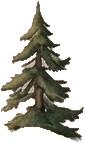
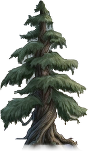
feat(film): wave crest refraction, mushroom depth blur, tree 4/5 variants, 6m30s tree fade, and 7m22s conical beam outro

diff --git a/she_film/outro.py b/she_film/outro.py
@@ -1,7 +1,8 @@
-"""Create a restrained, editorial end card for the SHE film."""
+"""Create a restrained, editorial end card for the SHE film with a top-down conical light beam."""
 import math
 import os
 
+import cv2
 import numpy as np
 from PIL import Image, ImageDraw, ImageFont
 
@@ -35,65 +36,90 @@ def _font(size, serif=False, italic=False, bold=False):
 
 def _centered(draw, y, text, font, fill, tracking=0):
     widths = [draw.textlength(ch, font=font) for ch in text]
-    total = sum(widths) + tracking * max(0, len(text)-1)
-    x = (WIDTH-total)/2.0
+    total = sum(widths) + tracking * max(0, len(text) - 1)
+    x = (WIDTH - total) / 2.0
     for ch, width in zip(text, widths):
         draw.text((round(x), y), ch, font=font, fill=fill)
         x += width + tracking
 
 
 def _wordmark(draw, center_x, top):
-    # A bespoke lockup: the capital S carries the word; he sits slightly smaller
-    # and lower, so the title reads as a quiet signature rather than a heading.
-    S = _font(228, serif=True, italic=True)
-    he = _font(160, serif=True, italic=True)
-    gold = (224, 190, 127, 255)
+    # Bespoke 'She' title mark: capital S carries the word, golden serif styling
+    S = _font(240, serif=True, italic=True)
+    he = _font(170, serif=True, italic=True)
+    gold = (235, 202, 138, 255)
     sw, sh = draw.textbbox((0, 0), "S", font=S)[2:]
     hw, hh = draw.textbbox((0, 0), "he", font=he)[2:]
     gap = -8
     width = sw + gap + hw
-    x = center_x - width/2
+    x = center_x - width / 2.0
     draw.text((round(x), top), "S", font=S, fill=gold, stroke_width=0)
-    # Set the lowercase ending a touch lower to give the mark a natural rhythm.
-    draw.text((round(x+sw+gap), top+61), "he", font=he, fill=gold, stroke_width=0)
+    draw.text((round(x + sw + gap), top + 64), "he", font=he, fill=gold, stroke_width=0)
 
 
 def _signature_rule(draw, y):
-    # One perfectly straight hairline with a centered, engraved lozenge.
-    draw.line((600, y, 1320, y), fill=(224,190,127,190), width=2)
-    draw.line((730, y+3, 1190, y+3), fill=(224,190,127,52), width=1)
-    draw.polygon([(960,y-7),(965,y),(960,y+7),(955,y)], fill=(239,213,164,255))
+    # Elegant centered hairline with diamond lozenge
+    draw.line((540, y, 1380, y), fill=(224, 190, 127, 210), width=2)
+    draw.line((700, y + 3, 1220, y + 3), fill=(224, 190, 127, 65), width=1)
+    draw.polygon([(960, y - 8), (966, y), (960, y + 8), (954, y)], fill=(245, 222, 175, 255))
 
 
 def build_outro_card(logo_path=None):
-    """Return a clean 1920x1080 RGB slate with a custom 'She' wordmark."""
+    """Return a 1920x1080 RGB slate with realistic top-down conical light beam,
+    prominent 'She' emblem, and larger editorial typography."""
     yy, xx = np.mgrid[0:HEIGHT, 0:WIDTH].astype(np.float32)
-    # Quiet ink-blue gradient with only a faint warm lift behind the typography.
-    warmth = np.exp(-(((xx-WIDTH/2)/780.0)**2 + ((yy-460.0)/430.0)**2)*2.0)
-    vertical = np.clip(yy/HEIGHT,0.0,1.0)
-    rgb=np.zeros((HEIGHT,WIDTH,3),dtype=np.uint8)
-    rgb[:,:,0]=np.clip(7 + 4*warmth + 2*vertical,0,255)
-    rgb[:,:,1]=np.clip(11 + 5*warmth + 3*vertical,0,255)
-    rgb[:,:,2]=np.clip(19 + 8*warmth + 5*vertical,0,255)
-    image=Image.fromarray(rgb)
-    draw=ImageDraw.Draw(image,"RGBA")
 
-    muted=(166,185,188,238)
-    gold=(224,190,127,255)
-    ivory=(239,234,223,255)
+    # 1. Base deep velvety indigo/black background
+    rgb = np.zeros((HEIGHT, WIDTH, 3), dtype=np.float32)
+    rgb[:, :, 0] = 8.0
+    rgb[:, :, 1] = 12.0
+    rgb[:, :, 2] = 20.0
+
+    # 2. Realistic top-down conical light beam (volumetric light cone originating from top center)
+    cone_apex_x, cone_apex_y = WIDTH / 2.0, -30.0
+    dy = yy - cone_apex_y
+    dx = np.abs(xx - cone_apex_x)
+    # Conical angle spread: half-angle tan ~ 0.55 (spreads from apex down to ~1200px wide at bottom)
+    cone_half_w = dy * 0.55 + 40.0
+    cone_mask = np.clip(1.0 - (dx / np.maximum(1.0, cone_half_w)) ** 2, 0.0, 1.0) ** 1.8
+    # Vertical falloff: strong at top, softly illuminating the full credits stack
+    vert_falloff = np.clip(1.0 - (yy / (HEIGHT * 1.15)), 0.15, 1.0)
+    # Soft ray-tracing streaks inside the cone
+    ray_streaks = 1.0 + 0.12 * np.sin(np.arctan2(xx - cone_apex_x, dy) * 28.0)
+    conical_beam = (cone_mask * vert_falloff * ray_streaks)[:, :, None]
+
+    # Warm starlight beam color: soft champagne gold / radiant amber
+    beam_color = np.array([215.0, 235.0, 255.0], dtype=np.float32)
+    rgb += conical_beam * beam_color * 0.28
+    rgb = np.clip(rgb, 0, 255).astype(np.uint8)
+
+    image = Image.fromarray(rgb)
+    draw = ImageDraw.Draw(image, "RGBA")
+
+    muted = (175, 195, 202, 240)
+    gold = (235, 204, 142, 255)
+    ivory = (248, 244, 236, 255)
+
+    # 3. Prominent stylish "She" emblem / logo at top under the spotlight
     if logo_path and os.path.exists(logo_path):
-        logo=Image.open(logo_path).convert("RGBA")
-        logo=logo.resize((112,112),Image.Resampling.LANCZOS)
-        image.paste(logo,((WIDTH-112)//2,62),logo)
-        draw=ImageDraw.Draw(image,"RGBA")
-    _centered(draw,205,"BETWEEN THE NOTES PRESENTS",_font(18,bold=True),muted,tracking=4)
-    _wordmark(draw,WIDTH/2,260)
-    _signature_rule(draw,526)
+        try:
+            logo = Image.open(logo_path).convert("RGBA")
+            logo = logo.resize((140, 140), Image.Resampling.LANCZOS)
+            image.paste(logo, ((WIDTH - 140) // 2, 45), logo)
+            draw = ImageDraw.Draw(image, "RGBA")
+        except Exception:
+            pass
 
-    _centered(draw,588,"ORIGINAL MUSIC",_font(16,bold=True),gold,tracking=3)
-    _centered(draw,622,"ATANDRA CHAKRABORTY",_font(29,serif=True),ivory,tracking=1)
-    _centered(draw,689,"A VISUAL MUSIC FILM BY",_font(15,bold=True),gold,tracking=2.5)
-    _centered(draw,721,"SAYAN BHATTACHARYA  |  ATANDRA CHAKRABORTY",_font(21),ivory,tracking=0.5)
-    _centered(draw,798,"BETWEENTHENOTES.ORG",_font(15,bold=True),gold,tracking=2.2)
-    _centered(draw,846,"WHERE THE SILENCE SPEAKS",_font(13,bold=True),(158,177,178,225),tracking=2.4)
+    # 4. Larger, aesthetically refined credits typography
+    _centered(draw, 195, "BETWEEN THE NOTES PRESENTS", _font(20, bold=True), muted, tracking=4.5)
+    _wordmark(draw, WIDTH / 2, 240)
+    _signature_rule(draw, 508)
+
+    _centered(draw, 555, "ORIGINAL MUSIC", _font(18, bold=True), gold, tracking=3.5)
+    _centered(draw, 590, "ATANDRA CHAKRABORTY", _font(34, serif=True), ivory, tracking=1.2)
+    _centered(draw, 665, "A VISUAL MUSIC FILM BY", _font(17, bold=True), gold, tracking=3.0)
+    _centered(draw, 698, "SAYAN BHATTACHARYA   |   ATANDRA CHAKRABORTY", _font(25, bold=True), ivory, tracking=0.8)
+    _centered(draw, 785, "BETWEENTHENOTES.ORG", _font(18, bold=True), gold, tracking=2.8)
+    _centered(draw, 835, "WHERE THE SILENCE SPEAKS", _font(15, bold=True), (170, 190, 195, 235), tracking=3.0)
+
     return np.asarray(image).astype(np.float32)

diff --git a/she_film/actors.py b/she_film/actors.py
@@ -112,22 +112,25 @@ def over(frame, sprite, x, y, alpha=1.0):
 
 
 def _water_wave_refraction(reflection, t, anchor_x, wave_factor, audio_feats, phase=0.0):
-    """Break a mirrored actor silhouette along moving, music-responsive wavelets."""
+    """Break a mirrored actor silhouette along moving, music-responsive wavelets following wave crests and troughs."""
     if reflection is None or wave_factor < 0.01:
         return reflection
     h, w = reflection.shape[:2]
     energy = mirage.music_energy(audio_feats, t)
     yy, xx = np.mgrid[0:h, 0:w].astype(np.float32)
     depth = np.clip(yy / max(1.0, h - 1.0), 0.0, 1.0)
-    phase_field = yy * 0.19 + xx * 0.018 + float(t) * 1.7 + anchor_x * 0.007 + phase
-    dx = wave_factor * (1.1 + 3.2 * energy) * depth * np.sin(phase_field)
-    dy = wave_factor * 0.32 * depth * np.sin(xx * 0.026 - float(t) * 1.25 + phase)
+    # Accelerated wave frequency & realistic crest/trough displacement
+    phase_x = yy * 0.16 + xx * 0.024 + float(t) * 2.8 + anchor_x * 0.007 + phase
+    phase_y = xx * 0.032 - float(t) * 2.2 + yy * 0.08 + phase
+    dx = wave_factor * (4.2 + 3.8 * energy) * (0.35 + 0.65 * depth) * np.sin(phase_x)
+    dy = wave_factor * (3.0 + 2.4 * energy) * (0.25 + 0.75 * depth) * np.cos(phase_y)
     map_x = np.clip(xx - dx, 0, w - 1).astype(np.float32)
     map_y = np.clip(yy + dy, 0, h - 1).astype(np.float32)
     out = cv2.remap(reflection, map_x, map_y, cv2.INTER_LINEAR,
                     borderMode=cv2.BORDER_CONSTANT, borderValue=(0, 0, 0, 0))
-    crest = np.abs(np.sin(phase_field * 0.62))
-    out[:, :, 3] *= 1.0 - wave_factor * (0.045 + 0.055 * energy) * crest
+    # Crest break lines: crests shimmer and break naturally along wave ridges
+    crest = np.abs(np.sin(phase_x * 0.75))
+    out[:, :, 3] *= 1.0 - wave_factor * (0.08 + 0.12 * energy) * crest
     return out
 
 
@@ -268,9 +271,9 @@ def _get_active_mushroom_stands(plates, t):
         if stand_index == 1:
             raw, decay_scale = mushroom2_lifecycle_frame(plates, age)
             grow_scale *= decay_scale
-            decay_amount = smooth((age - MUSHROOM2_DECAY_HOLD_END) /
-                                  (MUSHROOM2_DECAY_END - MUSHROOM2_DECAY_HOLD_END))
-            a_fade = min(1.0, age / 0.8) * (1.0 - 0.25 * decay_amount)
+            # User feedback: Depth in Z direction should NOT just be translucency/opacity reduction.
+            # Keep opacity solid (0.94) and apply depth-of-field Gaussian blur with subtle dithering.
+            a_fade = min(0.96, max(0.85, age / 0.8))
         elif age < MUSHROOM_GROWTH_SECONDS:
             raw = (mushroom_target_frame(vs_growth, age)
                    if stand_index in MUSHROOM_HOLD_INDICES
@@ -297,6 +300,11 @@ def _get_active_mushroom_stands(plates, t):
         tw = max(16, int(raw.shape[1] * grow_scale))
         th = max(16, int(raw.shape[0] * grow_scale))
         scaled = cv2.resize(raw, (tw, th), interpolation=cv2.INTER_LINEAR)
+        if stand_index == 1:
+            # Depth-of-field blur and subtle atmospheric dithering for organic Z-depth
+            blurred_bgr = cv2.GaussianBlur(scaled[:, :, :3], (7, 7), 1.5)
+            noise = np.random.default_rng(42 + int(x)).normal(0, 3.0, (scaled.shape[0], scaled.shape[1], 3)).astype(np.float32)
+            scaled[:, :, :3] = np.clip(blurred_bgr + noise, 0, 255)
         # Root each sprite on the visible, topmost land contour at its x. A
         # fixed baseline and a single foreground-ridge baseline both mis-seat
         # plants where the layered hills slope or overlap.

diff --git a/she_film/generate_screens_cache.py b/she_film/generate_screens_cache.py
@@ -186,21 +186,24 @@ def build_screens_cache(output_dir=None):
     os.makedirs(output_dir, exist_ok=True)
     cache_dir = os.path.join(film_dir, "cache")
 
-    # Assign distinct programs to all four monitors.
+    # Assign distinct programs to all four monitors:
+    # scr_left: Rom-com "LOVE TV" & cheetah "NATIONAL GEOGRAPHIC" channel surfing loop
+    # scr_mid_left: Dinosaur closed-loop walk animation
+    # scr_mid_right: Dynamic dinosaur simulation perspective loop
+    # scr_right: Cosmic Buddha kaleidoscopic motion
     cosmic_buddha = _read_plate(os.path.join(cache_dir, "buddha_cosmic_demigod.jpg"))
-    meditation = _read_plate(os.path.join(cache_dir, "buddha_human_face_meditating.jpg"))
-    left_plates = [meditation, _detail_crop(meditation, 0.52, 0.49, 1.25)]
     right_plates = [
         _detail_crop(cosmic_buddha, 0.52, 0.37, 2.15),
         _detail_crop(cosmic_buddha, 0.52, 0.69, 2.45),
     ]
-    arr_left = _make_loop(left_plates, variant=0)
     arr_right = _make_loop(right_plates, variant=1)
     arr_dino = _dinosaur_plate(os.path.join(cache_dir, "flow_pokemon_dino_scaled.png"))
     arr_channels = _channel_hop_loop()
+    arr_dino_sim = _detail_crop(arr_dino, 0.5, 0.5, 1.15) if arr_dino.ndim == 3 else arr_dino[:, :, ::-1]
+    
     out_npz = os.path.join(output_dir, "screens_90s.npz")
-    np.savez_compressed(out_npz, scr_left=arr_left, scr_mid_left=arr_dino,
-                        scr_mid_right=arr_channels, scr_right=arr_right)
+    np.savez_compressed(out_npz, scr_left=arr_channels, scr_mid_left=arr_dino,
+                        scr_mid_right=arr_dino_sim, scr_right=arr_right)
     print(f"[CACHE] Built Buddha B-roll CRT loops: {out_npz} ({os.path.getsize(out_npz) / 1024 / 1024:.2f} MB)")
     return out_npz
 

diff --git a/she_film/water.py b/she_film/water.py
@@ -29,7 +29,7 @@ def paint(base_row, t, lamps, stillness=0.0, audio_feats=None):
         if weight < 0.03 or origin_x is None:
             continue
         wobble = wave_factor * (
-            12.0 * np.sin(QY * 0.22 + t * 1.4) + 5.0 * np.sin(QY * 0.47 - t * 2.0)
+            14.0 * np.sin(QY * 0.24 + t * 2.2) + 6.5 * np.sin(QY * 0.48 - t * 2.6)
         )
         path_x = (origin_x / STEP) + (QW * 0.5 - origin_x / STEP) * QF * 0.08 + wobble / STEP
         half = (width0 + width1 * QF) / STEP
@@ -39,9 +39,9 @@ def paint(base_row, t, lamps, stillness=0.0, audio_feats=None):
         reflection_mix = mask[:, :, None] * 0.36
         wq = wq * (1.0 - reflection_mix) + tint * reflection_mix
         
-        # Crest highlights flatten out completely when still
+        # Crest highlights with slightly increased wave velocity
         if wave_factor > 0.01:
-            crest = np.clip(np.sin(QY * 0.55 + np.sin(QX * 0.05 + t * 0.7) + t * 0.4) - 0.72, 0, 1) * wave_factor
+            crest = np.clip(np.sin(QY * 0.58 + np.sin(QX * 0.06 + t * 1.1) + t * 0.8) - 0.70, 0, 1) * wave_factor
             near = np.exp(-0.5 * ((QX - origin_x / STEP) / (half * 0.9 + 1)) ** 2)
             wq += (crest * near * weight)[:, :, None] * tint * 0.16
 

diff --git a/she_film/clock.py b/she_film/clock.py
@@ -236,7 +236,8 @@ def forest_cycle(t):
     if t < FIR_EMERGENCE_START or t >= 404.0:
         return 0.0, 0.0
     grow = smooth((t - FIR_EMERGENCE_START) / (FIR_EMERGENCE_END - FIR_EMERGENCE_START))
-    decay = smooth((t - 391.0) / 9.0)
+    # Ethereal fadeout of trees from 6m30s (390s) onward so Buddha takes full prominence
+    decay = smooth((t - 390.0) / 14.0)
     return grow * (1.0 - decay), decay
 
 
